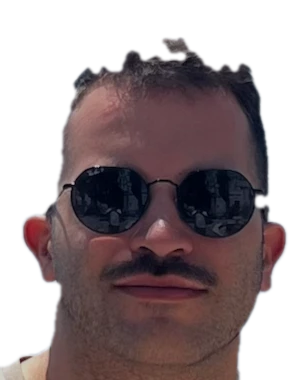
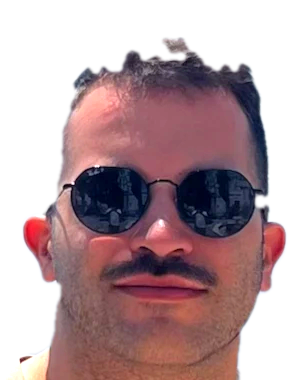
Brighten the cutout for the card's colour ASCII

diff --git a/scripts/cutout.py b/scripts/cutout.py
@@ -18,7 +18,7 @@ import sys
 from collections import deque
 
 import numpy as np
-from PIL import Image, ImageFilter
+from PIL import Image, ImageEnhance, ImageFilter
 
 
 def build_mask(rgb: np.ndarray, lum: np.ndarray, threshold: float) -> Image.Image:
@@ -61,6 +61,10 @@ def main() -> int:
     ap.add_argument("--threshold", type=float, default=0.05)
     ap.add_argument("--feather", type=float, default=1.2,
                     help="blur radius on the mask edge, in pixels")
+    ap.add_argument("--brightness", type=float, default=1.0,
+                    help="the card draws each character in its source pixel's colour, so "
+                         "skin tones read as muddy on a dark card; lift them here")
+    ap.add_argument("--saturation", type=float, default=1.0)
     args = ap.parse_args()
 
     img = Image.open(args.image).convert("RGB")
@@ -83,6 +87,10 @@ def main() -> int:
         alpha = alpha.filter(ImageFilter.GaussianBlur(args.feather))
 
     out = img.copy()
+    if args.brightness != 1.0:
+        out = ImageEnhance.Brightness(out).enhance(args.brightness)
+    if args.saturation != 1.0:
+        out = ImageEnhance.Color(out).enhance(args.saturation)
     out.putalpha(alpha)
     out.save(args.out, "PNG", optimize=True)
 
